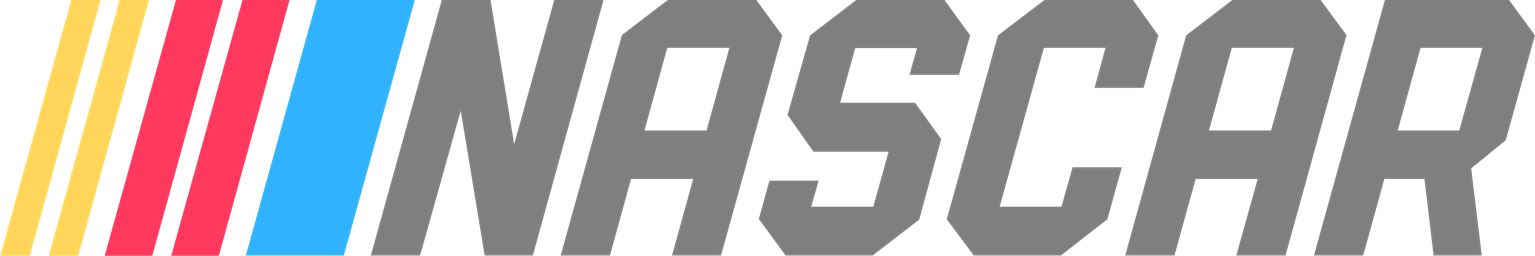
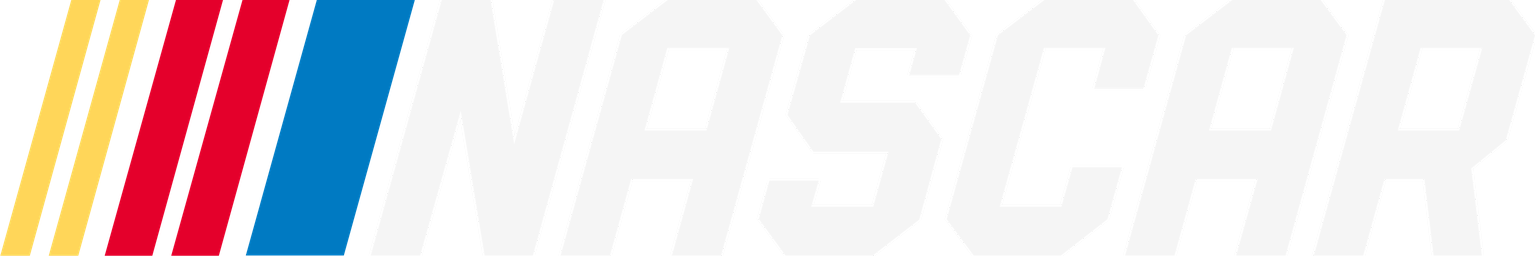
chore: land NASCAR dark mark + home-page decision record; drop stray root folder
Three unrelated bits of housekeeping that were all sitting in the working tree.

NASCAR dark mark (Cowork's fix). Verified rather than taken on trust: alpha-weighted
luminance moves 32.1 -> 210.9, so the black letters are genuinely whitened, while the
count of coloured pixels is IDENTICAL in both variants - 65,722, 27.1% of visible - so
the brand bars came through untouched. That is the whole intent of the fix, and it is
the pair of numbers that distinguishes it from a blanket lift that would have washed
the bars out too. 104,101 -> 82,712 bytes, same 1535x256 geometry.

docs/feature-study/05-home-page-decisions.md - the D1-D6 record from the design
sessions, previously untracked. D3 is what Stage 3 of this run implements.

Stray root folder "Claude outputs" deleted, and /Claude outputs/ added to .gitignore so
it cannot silently return. Its five design-proof PNGs had already been relocated to
artifacts/design-proofs/ - confirmed present before deleting anything, since that was
the gate on this step.

Two notes on the deletion. The folder held TWO files, not the one expected: a Cowork
session handoff and a copy of this prompt. Both are duplicates of documents that live in
the Claude project - the second is literally this prompt's own text - so nothing unique
was lost. I copied both into artifacts/cowork-scratch-2026-09-03/ before removing the
folder anyway: artifacts/ is gitignored, so it costs nothing, keeps the repo root clean
[…]

diff --git a/docs/feature-study/05-home-page-decisions.md b/docs/feature-study/05-home-page-decisions.md
@@ -1,0 +1,72 @@
+# 05 — Home Page Decision Board: Rulings
+
+**Decided:** 2026-09-03, Cowork decision session with Joe. **Status:** BINDING. Supersedes `04-home-page-memo.md` §7 wherever the two differ, and supersedes two of that memo's recommendations outright (§3 below). **Companions:** `04-home-page-memo.md` (the options), `03-enhancement-specs.md` (E1–E6), `mockups/home-page-candidates.html` (published as artifact `9a01648a-…`), desktop composition board (artifact `f7d0b1fb-…`).
+
+---
+
+## 1. Rulings
+
+| ID | Decision | Ruling |
+|----|----------|--------|
+| **D1** | Home-page family | **Option E — time-adaptive hybrid.** Today's `/` with a first band that changes with the clock. Reopens no lock; reuses the locked listings card; degrades to Option A when the clock is unknown. |
+| **D1b** | Band states | **Three, as specced.** `Tonight` (before the window) → `On now / Next up` (inside the window) → `Finals · Tomorrow` (after the last final). No "starting soon" fourth state. The band header must always state the viewing day and the clock it used, and always offer "See all today". |
+| **D2** | Prime window | **Per sport-day.** `prime_window_start` per sport: NFL 13:00, CFB 12:00, all others 18:00 (local ET). The day's window opens at the earliest start among sports that actually have games that day; it closes at the last program end. Rejected the memo's global 18:00 default — it is wrong for the whole first half of a CFB Saturday and an NFL Sunday, the two days the app matters most. |
+| **D3** | Live-state cadence | **Window-gated 15-minute poll on GitHub Actions now, plus an egress probe.** Ship the poll gated to the D2 window (≈900–1,750 of 2,000 free minutes/month). Add one probe stage to the deploy prompt: fetch a known-good ESPN endpoint from Vercel and from a Supabase edge function, report status codes. If 200 → v1.1 upgrades to refresh-on-open with the Actions poll dropped to a 30-minute backstop. If 403 → keep the poll unchanged. **This also closes the refresh-economics item on the handoff list.** |
+| **D4** | Off-service games on listings | **Filtered by default, with a count line and a "show all" toggle.** Count line is non-negotiable and reads e.g. `62 games · 8 not on your services · ACC Network, NFL+`. Applies to **every** listing surface — the time-aware band, the sport bands, Weeks, and History — not the home page alone. |
+| **D5** | Desktop composition | **Band left / grid right at ≥1,600 px; band above / grid below beneath that.** Never grid-first — that arrangement puts the time-aware band below the fold on a laptop and cancels the D1 decision. |
+| **D6** | Favorites placement | **Favorites float to the top of their own sport band.** No separate pin band, no duplicated card. See §2 — the scope of this changed at decision time. |
+
+## 2. D6 as actually decided — favorites, not a local pin
+
+Joe's stated list is thirteen teams across five sports, so this is **not** the market-inferred Cleveland pin the memo described. It is a favorites setting, and it is filed as a stated fact rather than an inference.
+
+| Sport | Teams |
+|---|---|
+| NFL | Cleveland Browns · Carolina Panthers |
+| MLB | Cleveland Guardians |
+| NBA | Cleveland Cavaliers |
+| NHL | Columbus Blue Jackets · Vegas Golden Knights · Pittsburgh Penguins |
+| CFB | Ohio State · LSU · Ole Miss · Tennessee · Ohio (Bobcats) · Fresno State |
+
+**Cowork judgment calls made at decision time (Joe may veto either):**
+
+1. **Ordering.** Floated rows keep chronological order among themselves; the remainder of the band keeps chronological order below them. The band never stops reading as a timeline.
+2. **Marker.** The floated group is separated by a hairline rule with a faint uppercase `YOUR TEAMS` micro-label. Without it, six floated CFB cards on a Saturday read as a broken sort. **The marker lives at band level, not on the card** — deliberately, so the locked card contract (v1.6.4 + Mobile Grid Addendum v1.0) is not reopened.
+
+**Implementation traps:**
+
+- **"Ohio" is Ohio University (Bobcats, MAC) — a different school from Ohio State.** A name-based resolver will collapse the two. Resolve by CFBD team id and assert both rows exist and differ.
+- "Tennessee" = Tennessee Volunteers (CFB), not the Titans.
+- Team ids follow the existing convention: `nfl-{espnId}`, `mlb-{id}`, `nba-{TRICODE}`, `nhl-{nhlId}`, CFB keeps CFBD ints. The favorites file stores **ids**, resolved once from names with the resolution table printed in the run report for Joe to verify.
+- The list is a **setting**, editable without a code change. It does not belong in the renderer.
+
+## 3. Corrections to the memo (do not re-inherit the old numbers)
+
+1. **D5 threshold: 1,200 px is wrong; use 1,600 px.** The grid draws at ~1,400 px natural width, and the Mobile Grid Addendum's floor analysis put network call letters below the legibility floor under 80% scale — a 1,120 px minimum grid column. With a 400 px band, a 24 px gap and 48 px page padding: `1,120 + 400 + 24 + 48 = 1,592 px`. At the memo's 1,200 px, the grid gets a ~730 px column and renders at 52% scale.
+2. **D2: the memo's recommended global 18:00 window is rejected**, for the reason in the table above. The per-sport row is the honest one and was chosen with its maintenance cost named: every new sport added under v0.5 needs a `prime_window_start` row.
+
+## 4. What this obligates
+
+**Build regardless (from memo §5), now confirmed in scope:**
+
+- **E1** card state model (pre / in / post with score and clock) — D1 and D3 both depend on it.
+- **E3** access glyph + off-services count — D4 is E3 applied to every listing surface.
+- **E4** "data as of" on listings.
+- **Grid "now" marker** — vertical hairline at the current time, gold at 40%. This is a **rendering-contract v1.7** entry, not a web-app change.
+- **`data/render_policies.json` gains `prime_window_start` per sport.** This is the same file the v1.7 `open_ended` vs per-sport-key reconciliation touches — **land both in the same change** or the file gets two competing shapes.
+
+**New data files:**
+
+- `data/favorites.json` (or an equivalent settings row) — the §2 list, ids not names.
+- `prime_window_start` per sport in `data/render_policies.json`.
+
+**Deploy prompt gains one stage:** the D3 egress probe (Vercel + Supabase edge → ESPN, status codes reported, no behavior change either way).
+
+**Sequencing.** The home page is a **web-app** change and does not need to wait for rendering-contract v1.7; the grid now-marker is the only piece that does. E1 is the shared dependency and should land first.
+
+## 5. Open after this board
+
+- The D3 probe result — decides whether v1.1 moves to refresh-on-open.
+- **E5 market-pending state for regional NFL windows is still unruled and is due before Sunday September 13.** It is not part of this board.
+- E2/E6 derivation and the §11.9 renderer "Tonight summary line" are the same calculation. **Build it once in the web app and have v1.7 import it**, or the two drift within a month.
+- Whether the `YOUR TEAMS` micro-label survives Joe seeing it rendered.
